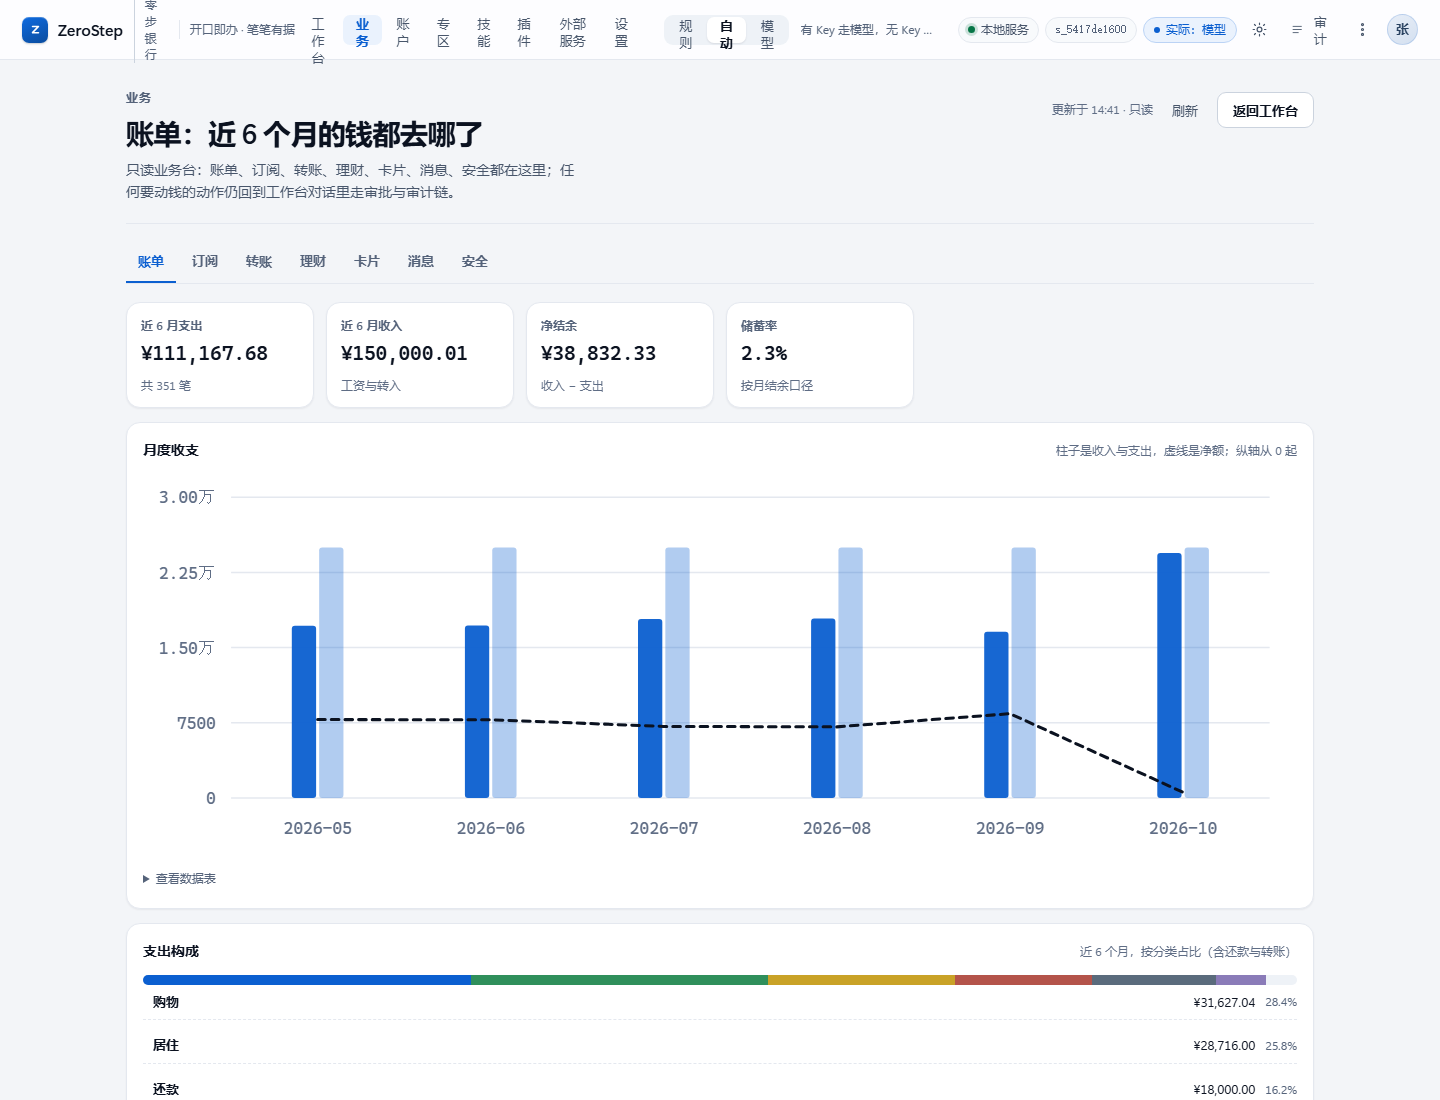
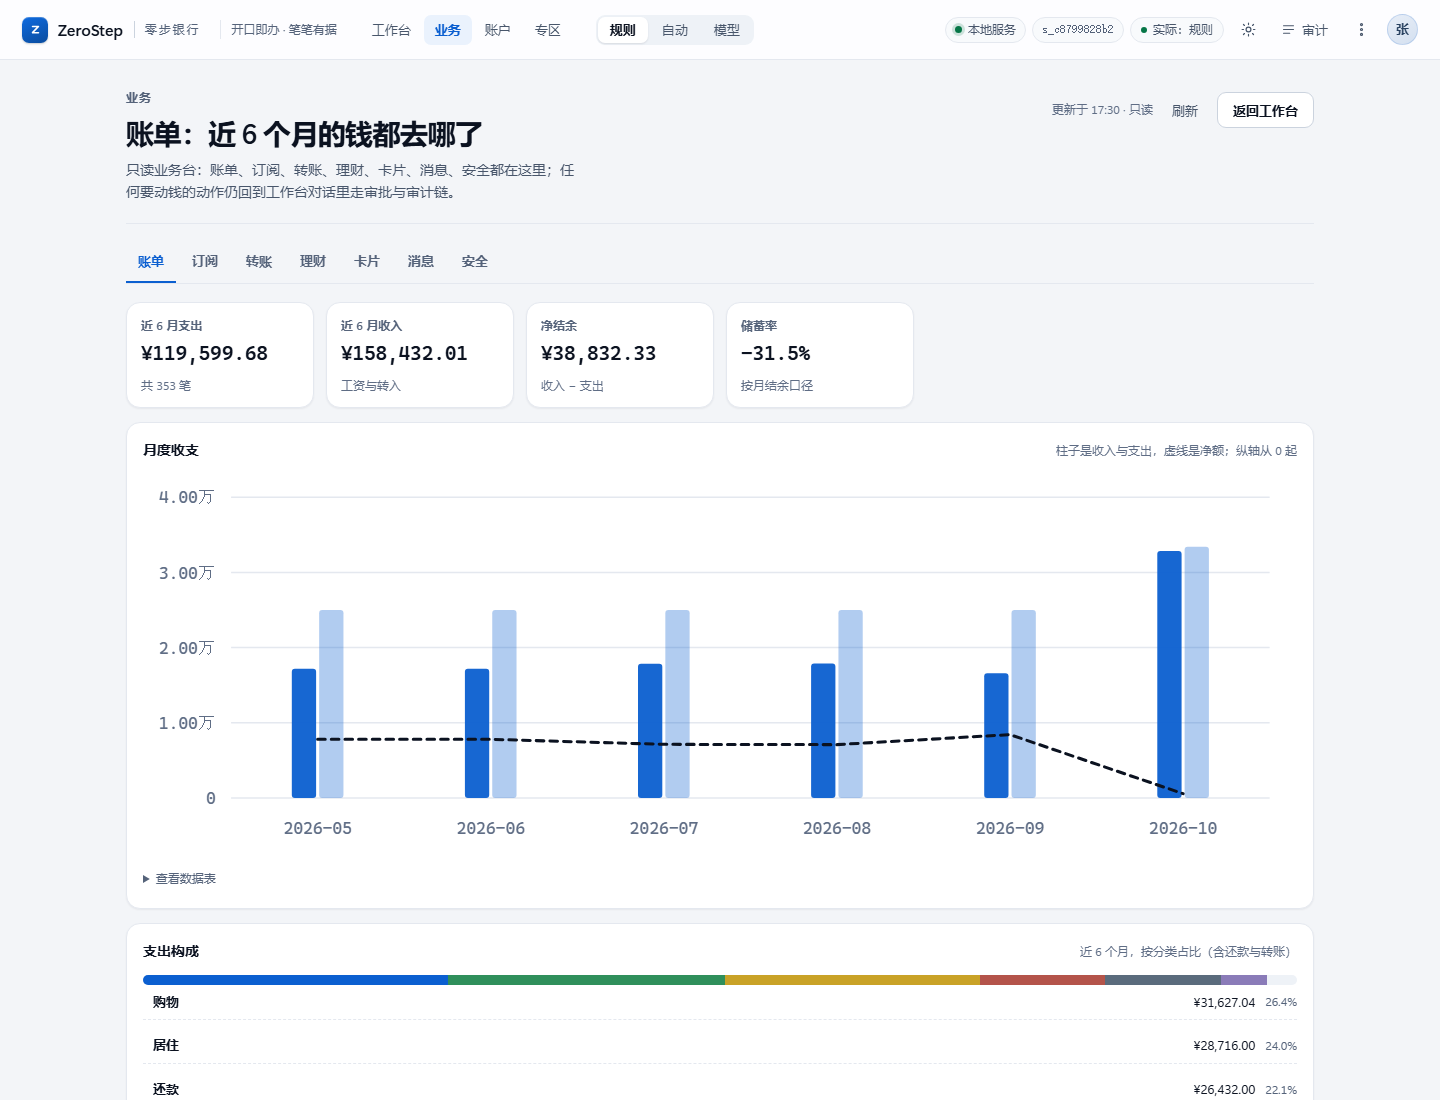
fix: v0.8.1 顶栏瘦身（二级入口移到左栏）与折行修复
顶栏只留工作台/业务/账户/专区四个主入口，技能、插件、外部服务、设置下沉到左栏「更多」分组；顶栏容器与控件加 flex:0 0 auto + white-space:nowrap，宽屏不再把「规则」「审计」「零步银行」压成竖排。平板（≤1024px）启用底部 tabbar 做主导航；左栏「更多」在窄屏正确收起；业务页消息列表去掉逐条重复的提示句。

验证：selftest 364/0、dashboard_e2e 48/48、smoke_repay 9/9、skill_check 6/6、plugin_e2e 17/17；1440/940/390 三档复核无横向滚动、顶栏单行。

diff --git a/frontend/styles.css b/frontend/styles.css
@@ -481,6 +481,7 @@ body[data-view="skills"] .shell,body[data-view="services"] .shell,body[data-view
   .rail{flex-direction:row;overflow:visible;padding:0}
   .acct{flex:1;min-width:0}
   .rail__block{display:none}
+  .rail>.railnav{display:none}
   .rail__foot{display:none}
   .stage{min-height:70vh}
   .grid3{grid-template-columns:repeat(2,minmax(0,1fr))}
@@ -502,6 +503,20 @@ body[data-view="skills"] .shell,body[data-view="services"] .shell,body[data-view
 /* ===== 顶栏导航 / 模式徽章 ===== */
 .topnav{display:flex;align-items:center;gap:2px;margin-left:4px;min-width:0;overflow:hidden}
 .topnav__btn{flex:0 0 auto;white-space:nowrap}
+/* v0.8.1：顶栏不换行——所有顶栏元素禁止收缩，文字不折行 */
+.topbar{flex-wrap:nowrap}
+.topbar>.brand,.topbar>.topbar__page,.topbar>.topnav,.topbar>.topbar__mid,.topbar>.topbar__right{flex:0 0 auto;min-width:0}
+.topbar__right>*{flex:0 0 auto}
+.seg{flex:0 0 auto}
+.seg__btn,.btn-text,.icon-btn,.statuschip,.effective{white-space:nowrap;flex:0 0 auto}
+.brand__name,.brand__cn{white-space:nowrap}
+/* 左栏「更多」导航 */
+.railnav{display:grid;grid-template-columns:1fr 1fr;gap:6px;margin-top:2px}
+.railnav__eyebrow{grid-column:1/-1;margin-bottom:2px}
+.railnav__btn{height:30px;border:1px solid var(--hairline);border-radius:var(--r-2);background:var(--surface);color:var(--text-2);font:inherit;font-size:12px;cursor:pointer;transition:border-color var(--t-fast) var(--ease),background-color var(--t-fast) var(--ease),color var(--t-fast) var(--ease)}
+.railnav__btn:hover{border-color:var(--accent-line);background:var(--accent-soft);color:var(--text-1)}
+.railnav__btn:focus-visible{outline:2px solid var(--accent);outline-offset:2px}
+
 .topnav__btn{
   height:30px;padding:0 11px;border:0;border-radius:7px;background:transparent;
   color:var(--text-2);font-size:13px;font-weight:500;cursor:pointer;
@@ -733,9 +748,7 @@ body[data-theme="dark"] .infobar--off{border-color:var(--hairline);color:var(--t
   .screen__head{display:block}
   .screen__acts{margin-top:14px}
 }
-@media (max-width:1024px){
-  .topnav{display:none}
-}
+@media (max-width:1024px){ .topnav{display:none} }
 @media (max-width:940px){
   .stage__foot{padding:10px 14px 14px}
   .toasts{left:14px;right:14px;bottom:14px;max-width:none}
@@ -1529,11 +1542,11 @@ body[data-view="biz"] .shell{display:none}
 .statuschip--mono{font-family:var(--mono,ui-monospace,SFMono-Regular,Menlo,monospace);color:var(--text-3)}
 .statuschip__dot{width:7px;height:7px;border-radius:50%;background:var(--ok);box-shadow:0 0 0 3px color-mix(in srgb,var(--ok) 18%,transparent)}
 .statuschip.is-bad .statuschip__dot{background:var(--err);box-shadow:0 0 0 3px color-mix(in srgb,var(--err) 18%,transparent)}
-@media (max-width:1500px){.seg__hint{display:none}}
-@media (max-width:1460px){.topbar__mid{display:none}}
+@media (max-width:1560px){.seg__hint{display:none}}
+@media (max-width:1240px){.topbar__mid{display:none}}
 @media (max-width:1400px){.brand__tag{display:none}}
-@media (max-width:1500px){.statuschip__t{display:none}}
-@media (max-width:1280px){.statuschip--mono{display:none}}
+@media (max-width:1300px){.statuschip__t{display:none}}
+@media (max-width:1180px){.statuschip--mono{display:none}}
 @media (max-width:1180px){.brand__tag{display:none}.statuschip--mono{display:none}.statuschip__t{display:none}}
 
 /* ============ 右栏：计划 / 提醒 / 风控（v0.8.0） ============ */
@@ -1596,4 +1609,19 @@ body[data-view="biz"] .shell{display:none}
 @media (max-height:820px){
   .rside .trace{min-height:150px}
   .wdemo{display:none}
+}
+
+/* ============ v0.8.1：平板宽度启用底部 tabbar（顶栏导航已让位给左栏） ============ */
+@media (max-width:1024px){
+  body{padding-bottom:calc(56px + env(safe-area-inset-bottom))}
+  .tabbar{
+    position:fixed;left:0;right:0;bottom:0;z-index:90;display:flex;
+    height:calc(56px + env(safe-area-inset-bottom));padding:0 4px env(safe-area-inset-bottom);
+    background:rgba(255,255,255,.94);backdrop-filter:saturate(180%) blur(14px);
+    border-top:1px solid var(--hairline);
+  }
+  body[data-theme="dark"] .tabbar{background:rgba(26,30,35,.94)}
+  .tabbar__btn{flex:1;height:56px;border-radius:10px}
+  .toasts{bottom:calc(66px + env(safe-area-inset-bottom))}
+  .pending-pill{bottom:calc(66px + env(safe-area-inset-bottom))}
 }

diff --git a/frontend/index.html b/frontend/index.html
@@ -34,10 +34,6 @@
     <button class="topnav__btn" type="button" data-nav="biz">业务</button>
     <button class="topnav__btn" type="button" data-nav="accounts">账户</button>
     <button class="topnav__btn" type="button" data-nav="zone">专区</button>
-    <button class="topnav__btn" type="button" data-nav="skills">技能</button>
-    <button class="topnav__btn" type="button" data-nav="plugins">插件</button>
-    <button class="topnav__btn" type="button" data-nav="services">外部服务</button>
-    <button class="topnav__btn" type="button" data-nav="settings">设置</button>
   </nav>
 
   <div class="topbar__mid">
@@ -89,6 +85,14 @@
       </div>
       <div class="chips" id="chips"></div>
     </section>
+
+    <nav class="railnav" aria-label="更多入口">
+      <span class="eyebrow railnav__eyebrow">更多</span>
+      <button class="railnav__btn" type="button" data-nav="skills">技能</button>
+      <button class="railnav__btn" type="button" data-nav="plugins">插件</button>
+      <button class="railnav__btn" type="button" data-nav="services">外部服务</button>
+      <button class="railnav__btn" type="button" data-nav="settings">设置</button>
+    </nav>
 
     <div class="rail__foot">
       演示环境 · 资金操作分级授权<br>全流程 SHA-256 哈希链审计

diff --git a/frontend/_selftest.js b/frontend/_selftest.js
@@ -1702,7 +1702,8 @@ function one(sel) { return doc.querySelector(sel); }
 
   console.log('== v0.7.1 账户页 ==');
   const navNames = getEls('#topNav .topnav__btn').map(function (b) { return b.getAttribute('data-nav'); }).join(',');
-  ok('顶栏八个入口且含账户', navNames === 'home,biz,accounts,zone,skills,plugins,services,settings', navNames);
+  ok('顶栏四个主入口', navNames === 'home,biz,accounts,zone', navNames);
+    ok('左栏「更多」四个入口', getEls('.railnav [data-nav]').map(function (b) { return b.getAttribute('data-nav'); }).join(',') === 'skills,plugins,services,settings', getEls('.railnav [data-nav]').map(function (b) { return b.getAttribute('data-nav'); }).join(','));
   ok('更多菜单含账户入口', !!one('#moreMenu [data-nav="accounts"]'));
   ZS.showView('accounts');
   await sleep(120);

diff --git a/frontend/app.js b/frontend/app.js
@@ -4540,7 +4540,7 @@
         sub: it.desc,
         pill: it.priority,
         pillClass: it.priority === 'P1' ? 'bpill--p1' : 'bpill--p2',
-        meta: [it.kind === 'approval' ? '等你在工作台确认' : '点右侧按钮把意图预填进对话'],
+        meta: it.kind === 'approval' ? ['等你在工作台确认'] : [],
         amount: it.amount_display,
         actions: [{ label: it.action || '去看看', text: it.target || it.title }]
       });

diff --git a/frontend/sw.js b/frontend/sw.js
@@ -3,7 +3,7 @@
  */
 'use strict';
 
-var VERSION = '0.8.0';
+var VERSION = '0.8.1';
 var CACHE_NAME = 'zerostep-shell-v' + VERSION;
 
 var SHELL = [

diff --git a/CHANGELOG.md b/CHANGELOG.md
@@ -4,6 +4,21 @@
 
 v0.2.0 为 2026-10-27 启动的能力批次，代码合并与验收由 Lead 统一复核；尚未通过验收的接口与命令在对应位置单独注明。
 
+## [0.8.1] - 2026-10-29（进行中，未打 tag）
+
+### Changed
+- 顶栏瘦身：8 项导航收为 4 项主入口（工作台 / 业务 / 账户 / 专区），技能、插件、外部服务、设置移到左栏「更多」分组常驻；顶栏保留品牌 + 价值语、模式切换、服务状态点、会话号、实际模式、外观、审计、更多与头像。
+- 平板宽度（≤1024px）改用底部 tabbar 做主导航，避免顶栏导航收起后无处可点。
+
+### Fixed
+- 顶栏元素在宽屏被压成竖排（「规 则」「审 计」「零步银 行」折行）：给顶栏容器与所有控件加 `flex:0 0 auto` + `white-space:nowrap`，顶栏不再换行。
+- 左栏「更多」分组在窄屏盖住账户卡：`.rail>.railnav{display:none}` 提到与左栏折叠规则同级（原来被子元素规则覆盖）。
+- 业务页「消息」列表每条都重复「点右侧按钮把意图预填进对话」，改为只在待审批条目上显示一句说明。
+
+### 验证
+- `node frontend/_selftest.js` PASS=364 FAIL=0；`scripts/dashboard_e2e.py` 48/48；`scripts/smoke_repay.py` 9/9；`scripts/skill_check.py` 6/6；`scripts/plugin_e2e.py` 17/17。
+- 截图复核 1440 / 940 / 390 三档：顶栏单行不折行，`scrollWidth == clientWidth`。
+
 ## [0.8.0] - 2026-10-29（进行中，未打 tag）
 
 ### Added

diff --git a/docs/design-system.md b/docs/design-system.md
@@ -345,7 +345,7 @@
 | 会话号 | `.statuschip--mono#sessionChip` | 显示当前会话号前 12 位，hover 看全；≤1280px 隐藏 |
 | 实际模式 | `.effective#modeBadge` | 规则 / 模型 / 回退，始终可见 |
 
-顶栏容量有限：≤1460px 收起中段「规则/自动/模型」切换（更多菜单里仍有同一组开关），≤1500px 收起模式提示文案。
+顶栏容量有限：v0.8.1 把二级入口（技能 / 插件 / 外部服务 / 设置）下沉到左栏「更多」分组，顶栏只留工作台 / 业务 / 账户 / 专区四个主入口；≤1560px 收起模式提示文案，≤1240px 收起中段模式切换（更多菜单里仍有同一组开关），≤1300px 服务状态只留圆点，≤1180px 隐藏会话号。平板与手机（≤1024px）改用底部 tabbar 做主导航。
 
 ### 9.5 响应式
 
